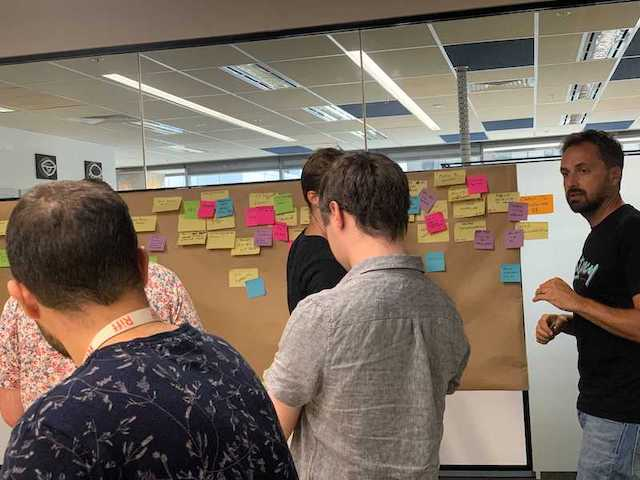
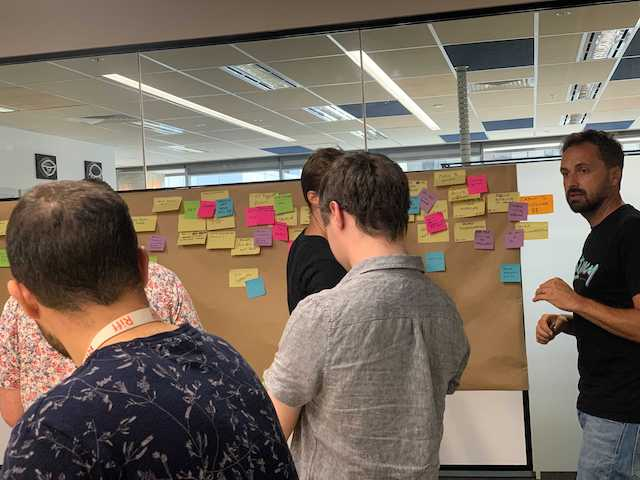
image changes

diff --git a/_posts/2021-05-05-the-competitive-advantage-of-ux.md b/_posts/2021-05-05-the-competitive-advantage-of-ux.md
@@ -64,7 +64,7 @@ Without this context, designers have an incomplete understanding about the curre
 
 An approach such as a VSM workshop is highly effective in fostering a shared understanding between designers, developers and clients. VSM provides a space for UX and DevOps to work together and this is "essential for DevOps teams to ensure they solve the right problems and are understanding the user’s real needs", ([Barnaby Dracup](https://www.devopsonline.co.uk/integrating-ux-with-devops/)). And this supports a long term competitive advantage.
 
-![Photograph of a Value Stream Mapping Workshop](/img/Value_Stream_Mapping.jpg)
+![Photograph of a Value Stream Mapping Workshop](/img/vsm_workshop.jpg)
 <br/>
 _Hamish Tedeschi, CEO, running a VSM workshop with a client_
 
